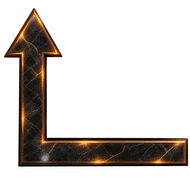
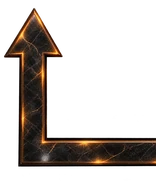
Sink the arrow's leg into the wall
Cuts the far end of the horizontal leg so the fixture reads as anchored rather
than as a shape resting against the edge. Box width follows the new aspect.

Changed region(s): [[0.0, 0.0309, 0.4103, 0.866], [0.359, 0.7113, 1.0, 0.866]]

diff --git a/src/components/ScrollRail.tsx b/src/components/ScrollRail.tsx
@@ -16,7 +16,7 @@ export const ScrollRail: React.FC = () => {
       type="button"
       onClick={toTop}
       aria-label="Zum Seitenanfang"
-      className="group fixed right-0 top-1/2 z-40 h-[76px] w-[74px] -translate-y-1/2 cursor-pointer md:h-[104px] md:w-[102px]"
+      className="group fixed right-0 top-1/2 z-40 h-[76px] w-[61px] -translate-y-1/2 cursor-pointer md:h-[104px] md:w-[84px]"
     >
       <img
         src="/ziplama.webp"
